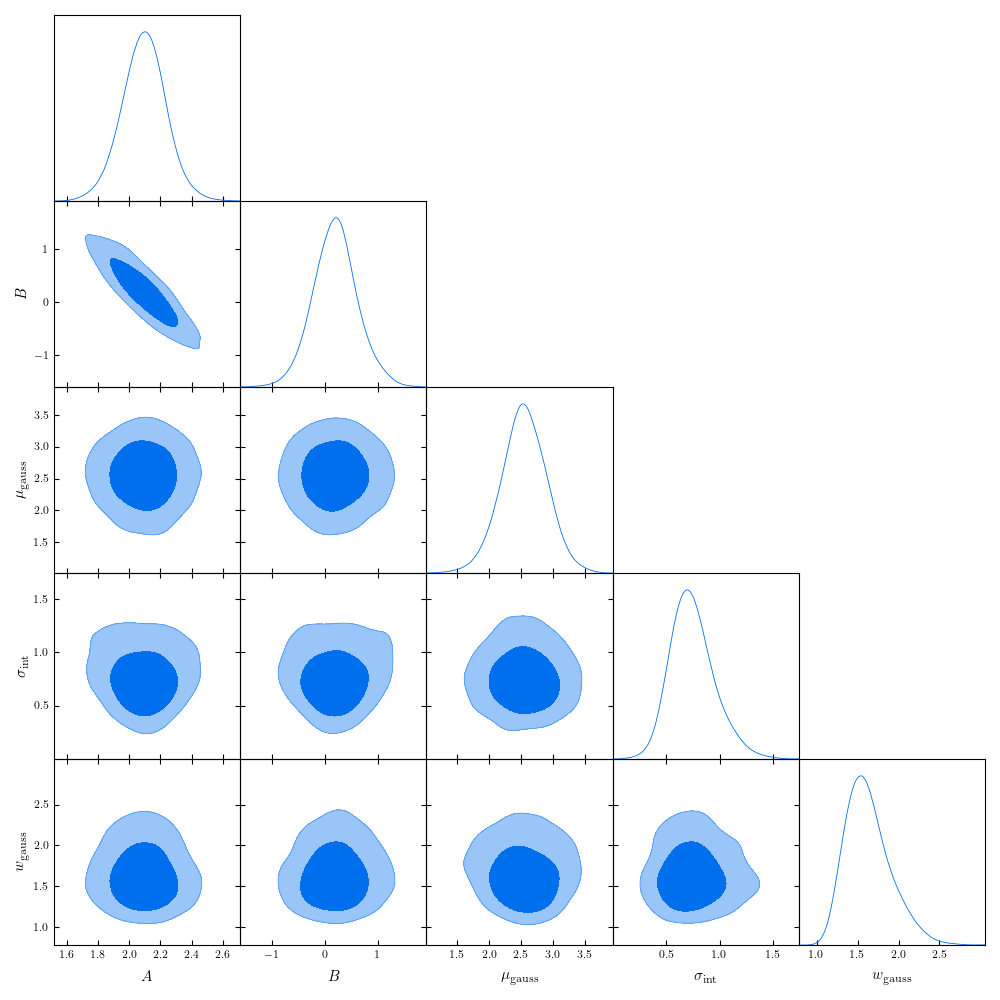
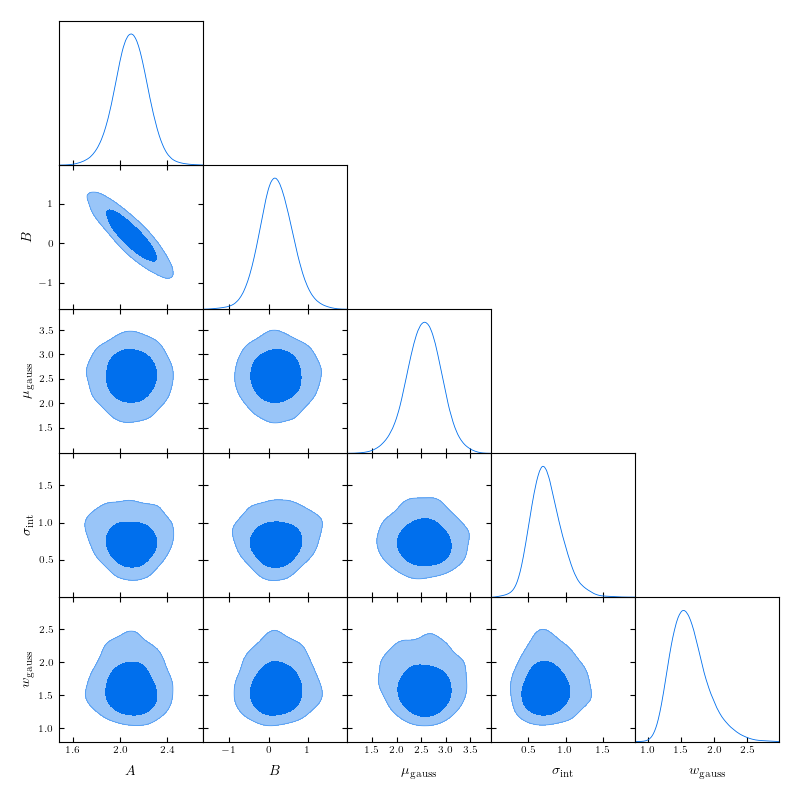
16 tutorial does not run as currently implemented (#17)
* Update example 1 with method argument

* Fix GMM tutorial

* Correct width prior in optimise and correct outputs for GMM tutorial

diff --git a/roxy/regressor.py b/roxy/regressor.py
@@ -322,9 +322,11 @@ class RoxyRegressor():
             imin = len(params_to_opt)
             if infer_intrinsic:
                 imin += 1
-            # Weights
+            # Widths
             lower_bounds = lower_bounds.at[imin+ngauss:imin+2*ngauss].set(0.)
-            upper_bounds = upper_bounds.at[imin+ngauss:imin+2*ngauss].set(1.)
+            # Weights
+            lower_bounds = lower_bounds.at[imin+2*ngauss:imin+3*ngauss-1].set(0.)
+            upper_bounds = upper_bounds.at[imin+2*ngauss:imin+3*ngauss-1].set(1.)
             # Hierarchical params
             lower_bounds = lower_bounds.at[imin+3*ngauss:].set(0.)
         res = lbfgsb.run(initial, bounds=(lower_bounds, upper_bounds))
@@ -774,6 +776,7 @@ class RoxyRegressor():
         metric = np.empty(max_ngauss)
     
         for ngauss in range(1, max_ngauss+1):
+            print('\n' + '*'*20, f'\nStarting ngauss={ngauss}', '\n' + '*'*20 + '\n')
             _, metric[ngauss-1] = self.compute_information_criterion(
                                             best_metric,
                                             params_to_opt,

diff --git a/roxy/plotting.py b/roxy/plotting.py
@@ -147,7 +147,7 @@ def trace_plot(samples, labels=None, to_plot='all', savename=None, show=True):
 
     return
     
-def posterior_predictive_plot(reg, samples, xobs, yobs, xerr, yerr, savename=None, show=True, xlabel=r'$x$', ylabel=r'$y$', errorbar_kwargs={'fmt':'.', 'markersize':1, 'zorder':1, 'capsize':1, 'elinewidth':0.5, 'color':'k', 'alpha':1}, fgivenx_kwargs={}):
+def posterior_predictive_plot(reg, samples, xobs, yobs, xerr, yerr, savename=None, show=True, xlabel=r'$x$', ylabel=r'$y$', errorbar_kwargs={'fmt':'.', 'markersize':1, 'zorder':10, 'capsize':1, 'elinewidth':0.5, 'color':'k', 'alpha':1}, fgivenx_kwargs={}):
     """
     Make the posterior predictive plot showing the 1, 2 and 3 sigma predictions
     of the function given the inferred parameters and plot the observed points on

diff --git a/docs/source/tutorial.rst b/docs/source/tutorial.rst
@@ -43,7 +43,7 @@ If you wish to set improper uniform priors without edges on an parameter, simply
 	
 	param_names = ['A', 'B']
 	theta0 = [2, 0.5]
-	param_prior = {'A':[0, 5], 'B':[-1, 1], 'sig':[0, 3.0]}
+	param_prior = {'A':[0, 5], 'B':[-2, 2], 'sig':[0, 3.0]}
 
 	reg = RoxyRegressor(my_fun, param_names, theta0, param_prior)
 
@@ -112,7 +112,7 @@ We print the parameter mean and median values, their standard deviations, the 5%
 .. code-block:: python
 
 	nwarm, nsamp = 700, 5000
-	samples = reg.mcmc(param_names, xobs, yobs, [xerr, yerr], nwarm, nsamp, method=method)
+	samples = reg.mcmc(param_names, xobs, yobs, [xerr, yerr], nwarm, nsamp, method='mnr')
 
 .. code-block:: console
 
@@ -127,6 +127,8 @@ We print the parameter mean and median values, their standard deviations, the 5%
 	   w_gauss      1.63      0.28      1.59      1.20      2.09   3000.74      1.00
 
 	Number of divergences: 0
+
+In this example we chose to use ``method='mnr'``, but this can be any one of 'mnr', 'gmm', 'unif' or 'prof'. See ``roxy.likelihoods`` and the MNR paper for more details of the choice of likelihood.
 
 We now plot the results. The trace plot gives the sample value as a function of MCMC step, the triangle plot gives the one- and two-dimensional posterior distributions, and the posterior predictive plot gives the predicted function values at 1, 2 and 3 sigma confidence.
 These plots make use of the `arviz <https://www.arviz.org/en/latest/>`_, `getdist <https://getdist.readthedocs.io/en/latest/>`_ and `fgivenx <https://fgivenx.readthedocs.io/en/latest/?badge=latest>`_ modules, respectively. We also have functionality to produce triangle plots with the `corner <https://corner.readthedocs.io/en/latest/>`_ module (by replacing ``module='getdist'`` with ``module='corner'`` in ``roxy.plotting.triangle_plot``).
@@ -195,6 +197,8 @@ Plotting the distribution, we see this is highly non-Gaussian
 .. code-block:: python
 
 	import matplotlib.pyplot as plt
+	import matplotlib as mpl
+	mpl.rcParams['text.usetex'] = True
 
 	fig, ax = plt.subplots(1, 1, figsize=(10,4))
 	ax.hist(xtrue, bins=30, density=True, histtype='step', color='b')
@@ -275,30 +279,27 @@ yields
 .. code-block:: console
 
 	Optimisation Results:
-	A:	2.007291078567505
-	B:	0.5517559051513672
-	sig:	0.49039560556411743
-	mu_gauss_0:	0.048832207918167114
-	mu_gauss_1:	-7.254714488983154
-	w_gauss_0:	0.3939739465713501
-	w_gauss_1:	4.932014465332031
-	weight_gauss_0:	0.023076239973306656
-	3222.376708984375
-	
+	A:	2.0032894611358643
+	B:	0.5073251724243164
+	sig:	0.491148978471756
+	mu_gauss_0:	-9.9967679977417
+	mu_gauss_1:	-0.1831844449043274
+	w_gauss_0:	1.8608429431915283
+	w_gauss_1:	3.2111401557922363
+	weight_gauss_0:	0.6975019574165344
 
 	Running MCMC
-	sample: 100%|██████████████████| 5700/5700 [00:05<00:00, 1078.21it/s, 7 steps of size 3.14e-01. acc. prob=0.94]
+	sample: 100%|█████████████████████████████████████████████████████████████████████████████████████████████████████████████████████████████████████████████| 5700/5700 [00:04<00:00, 1252.86it/s, 15 steps of size 3.79e-01. acc. prob=0.91]
 
 			 mean       std    median      2.5%     97.5%     n_eff     r_hat
-		  A      2.00      0.00      2.00      1.99      2.01   3763.48      1.00
-		  B      0.51      0.04      0.51      0.43      0.59   3444.97      1.00
-	mu_gauss[0]    -10.00      0.09    -10.01    -10.17     -9.83   3822.16      1.00
-	mu_gauss[1]     -0.22      0.27     -0.21     -0.76      0.29   3426.68      1.00
-		sig      0.49      0.02      0.49      0.44      0.54   4186.86      1.00
-	 w_gauss[0]      1.86      0.06      1.86      1.74      1.99   3359.74      1.00
-	 w_gauss[1]      3.26      0.21      3.25      2.88      3.68   3499.39      1.00
-	 weights[0]      0.70      0.02      0.70      0.66      0.73   3768.39      1.00
-	 weights[1]      0.30      0.02      0.30      0.27      0.34   3768.39      1.00
+		  A      2.00      0.00      2.00      1.99      2.01   3723.59      1.00
+		  B      0.51      0.04      0.51      0.43      0.59   3695.99      1.00
+	mu_gauss[0]    -10.00      0.08    -10.00    -10.18     -9.85   3417.18      1.00
+	mu_gauss[1]     -0.22      0.27     -0.20     -0.75      0.30   3179.26      1.00
+		sig      0.49      0.02      0.49      0.45      0.54   4669.69      1.00
+	 w_gauss[0]      1.86      0.06      1.86      1.74      1.99   3220.82      1.00
+	 w_gauss[1]      3.26      0.21      3.25      2.86      3.66   3162.07      1.00
+	 weights[0]      0.70      0.02      0.70      0.66      0.73   3530.11      1.00
 
 
 and
@@ -313,16 +314,17 @@ AIC or BIC. For example, with these data, we can check to see whether we should 
 .. code-block:: python
 
 	max_ngauss = 3
-	reg.find_best_gmm(param_names, xobs, yobs, [xerr, yerr], max_ngauss, best_metric='BIC', nwarm=100, nsamp=100, gmm_prior='uniform')
+	np.random.seed(42)
+	reg.find_best_gmm(param_names, xobs, yobs, xerr, yerr, max_ngauss, best_metric='BIC', nwarm=100, nsamp=100, gmm_prior='uniform')
 
 which gives (alongside some other output)
 
 .. code-block:: console
 
 	Best ngauss according to BIC: 2
-	1 555.9282
+	1 555.93359375
 	2 0.0
-	3 18.67041
+	3 23.408203125
 
 so, indeed, 2 Gaussians are preferred.
 
